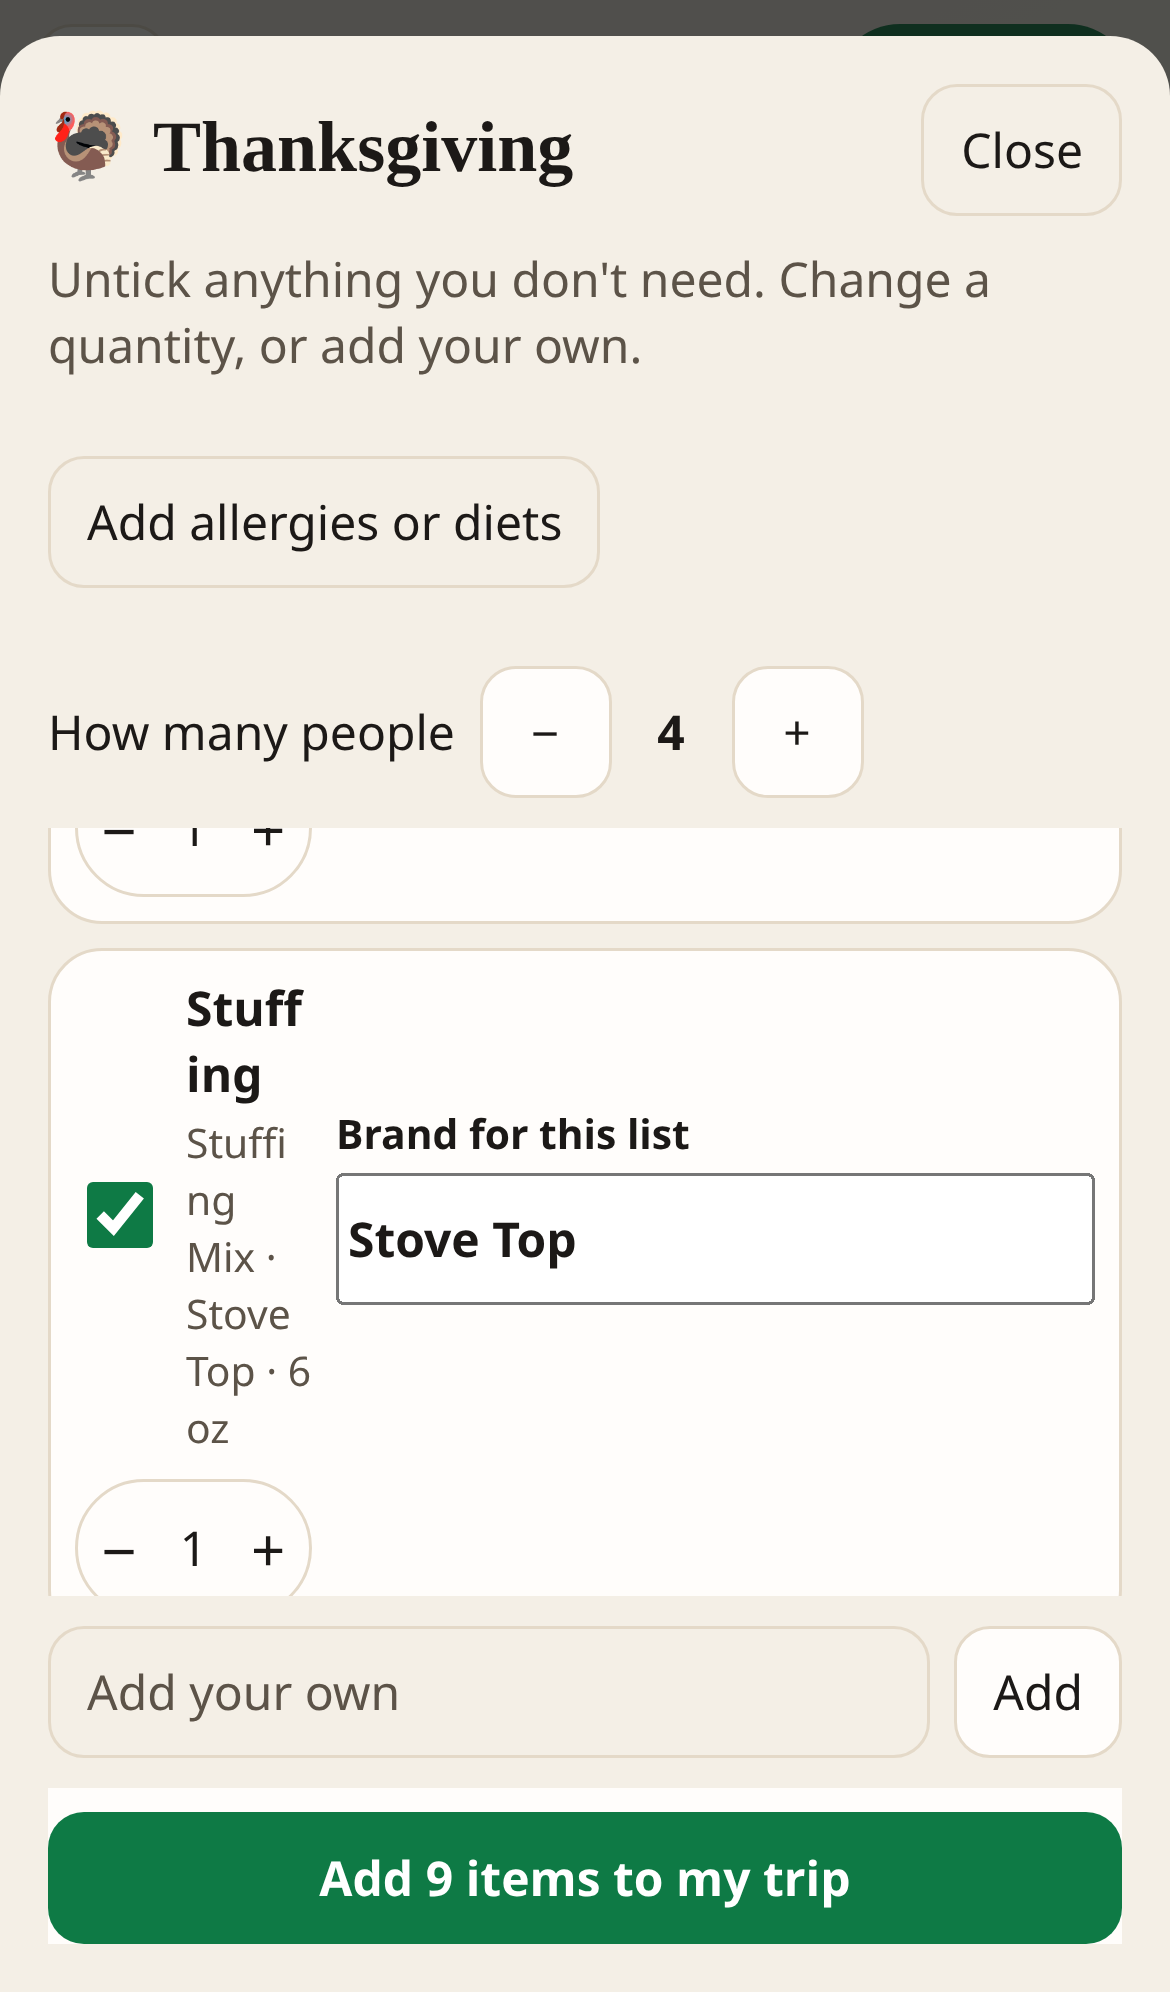
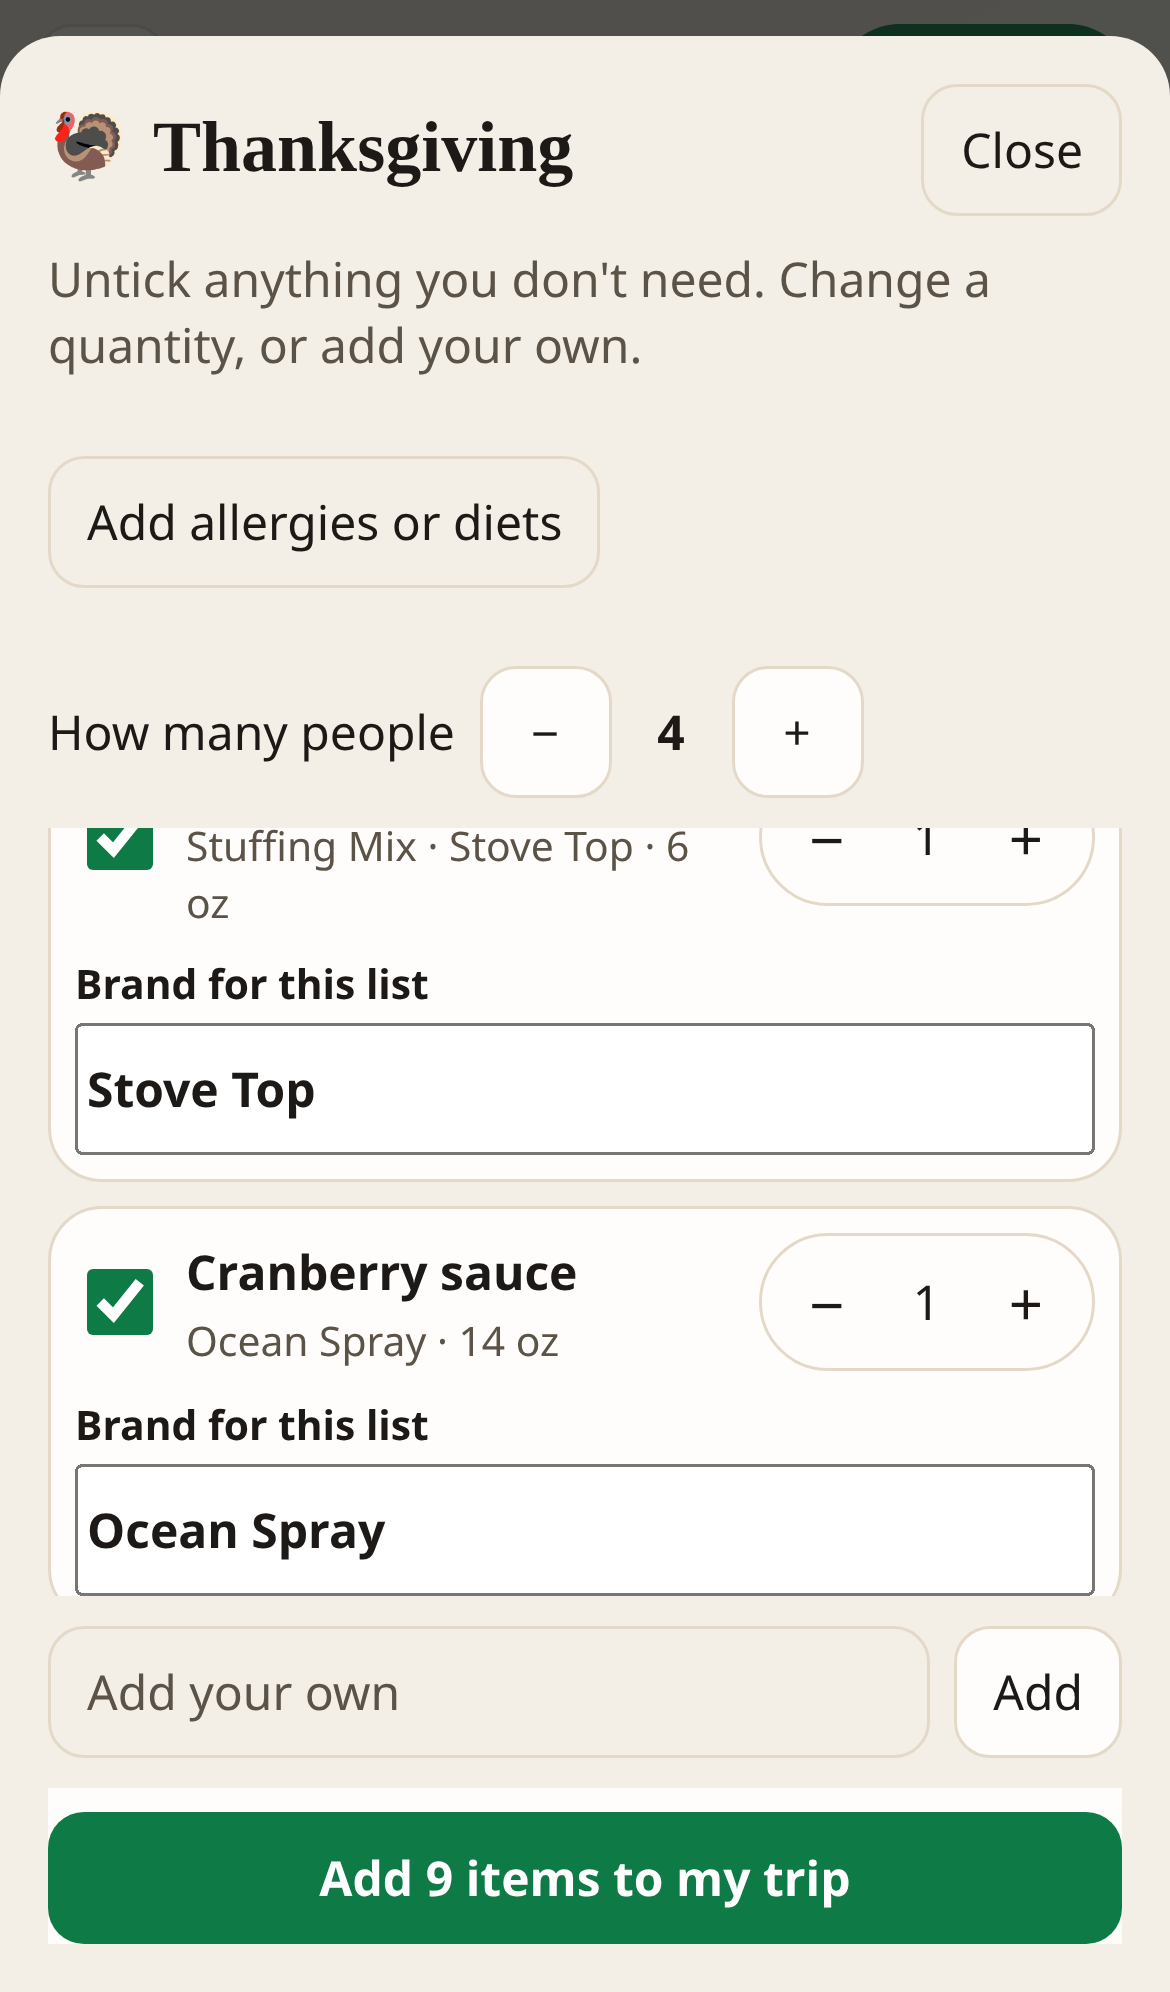
Keep each tailgate brand field on its own row.
The brand box was sharing the quantity column and wrapping the item name. It now sits under the line, and the return-sheet test checks the open dialog before the handoff page moves on.

diff --git a/e2e/phoneProof.spec.ts b/e2e/phoneProof.spec.ts
@@ -510,7 +510,12 @@ test("coming back from a store opens the return sheet", async ({ page }) => {
     localStorage.setItem("gg-list", JSON.stringify([{ id: "milk", itemId: "milk", name: "Whole Milk", quantity: 1 }]));
     window.open = () => ({ closed: false, focus() {}, close() {} });
   });
-  await page.route("**/handoff.html**", (route) => route.fulfill({ status: 204, body: "" }));
+  await page.route("**/*", (route) => {
+    const request = route.request();
+    const url = request.url();
+    if (request.isNavigationRequest() && (url.includes("handoff.html") || url.includes("walmart.com"))) return route.abort();
+    return route.continue();
+  });
   await unlock(page);
   await page.locator('[data-flow="plan"]').click();
   await page.evaluate(() => {
@@ -547,8 +552,6 @@ test("coming back from a store opens the return sheet", async ({ page }) => {
   expect(result.open, JSON.stringify(result)).toBe(true);
   expect(result.title).toMatch(/finish/i);
   expect(result.still).toMatch(/Still shopping/);
-  await page.screenshot({ path: "/opt/cursor/artifacts/store-return.png" });
-  if (await page.locator("#store-return-no").isVisible()) await page.locator("#store-return-no").click();
 });
 
 test("the finished-trip toast stays off the header and can be undone", async ({ page }) => {

diff --git a/public/shopper/themeChecklist.js b/public/shopper/themeChecklist.js
@@ -204,14 +204,14 @@ function rowHtml(item, escapeHtml) {
         ${meta ? `<span class="muted">${text(escapeHtml, meta)}</span>` : ""}
       </span>
     </label>
-    <label class="theme-brand">Brand for this list
-      <input data-theme-brand="${text(escapeHtml, item.id)}" value="${text(escapeHtml, item.brand || "")}" maxlength="40" autocomplete="off" />
-    </label>
     <div class="stepper" role="group" aria-label="Quantity for ${text(escapeHtml, item.label)}">
       <button type="button" data-theme-dec="${text(escapeHtml, item.id)}" aria-label="Decrease ${text(escapeHtml, item.label)}">−</button>
       <output>${item.quantity}</output>
       <button type="button" data-theme-inc="${text(escapeHtml, item.id)}" aria-label="Increase ${text(escapeHtml, item.label)}">+</button>
     </div>
+    <label class="theme-brand">Brand for this list
+      <input data-theme-brand="${text(escapeHtml, item.id)}" value="${text(escapeHtml, item.brand || "")}" maxlength="40" autocomplete="off" />
+    </label>
   </li>`;
 }
 

diff --git a/public/shopper/addTabPolish.css b/public/shopper/addTabPolish.css
@@ -226,7 +226,7 @@
   color: var(--muted);
   text-decoration: line-through;
 }
-.theme-brand { display: flex; flex-direction: column; gap: 4px; margin: 0 0 8px; font-size: 0.85rem; font-weight: 750; }
+.theme-brand { display: flex; flex-direction: column; gap: 4px; margin: 0; grid-column: 1 / -1; font-size: 0.85rem; font-weight: 750; }
 .theme-brand input { min-height: 44px; width: 100%; }
 .theme-check-hit {
   display: flex;
